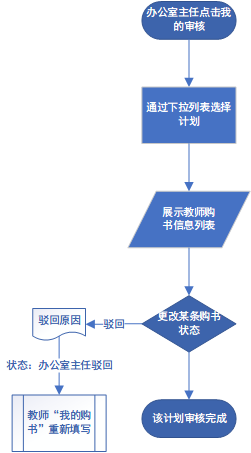
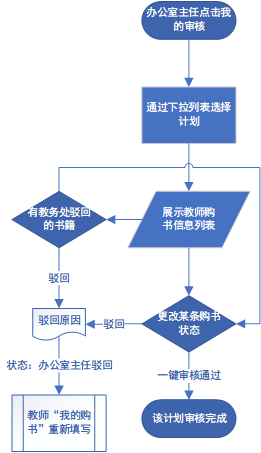
init

diff --git a/README.md b/README.md
@@ -161,6 +161,8 @@
 3. 办公室主任可以对某本书（下文用书A代替）进行驳回操作（驳回时必须填写驳回原因），该操作导致书A返回至“教师”处，并且书A在教师购书列表的状态更改为“办公室主任驳回”。
 4. 办公室主任可以对书籍进行一键审核通过操作（该操作不会影响已经驳回的书籍状态）。
 5. 审核通过的书籍将在教务处“我的审核”页面进行教务处审核操作。
+6. 教务处驳回的书籍信息可以通过驳回操作驳回给教师，并可以修改驳回原因。
+7. 已被教务处驳回的书籍信息无法立即审核通过，即只能驳回给教师后教师重新提交。
 
 ![](./流程图/办公室主任：我的审核.png)
 
@@ -187,7 +189,7 @@
 
 - 展示：
 
-  默认展示优先级：已驳回>未审核（优先展示未定书）>通过
+  默认展示优先级：教务处驳回>已驳回>未审核（优先展示未定书）>通过
 
 # 教师
 
@@ -228,7 +230,7 @@
 1. 教师选择课程名称，是否购书。
 2. 如果选择无需购书，填写原因，表单其他项目均无需填写。
 3. 教师通过表单的形式填写书籍信息。
-4. 教师可以重复选择某门课程的书籍（即ISBN如果不相同则认为改门课程有多本书籍）。
+4. 教师可以重复选择某门课程的书籍（即ISBN如果不相同则认为该门课程有多本书籍）。
 5. 当ISBN和课程名称重复时将不予提交。
 
 ![](./流程图/教师：填写购书信息.png)
